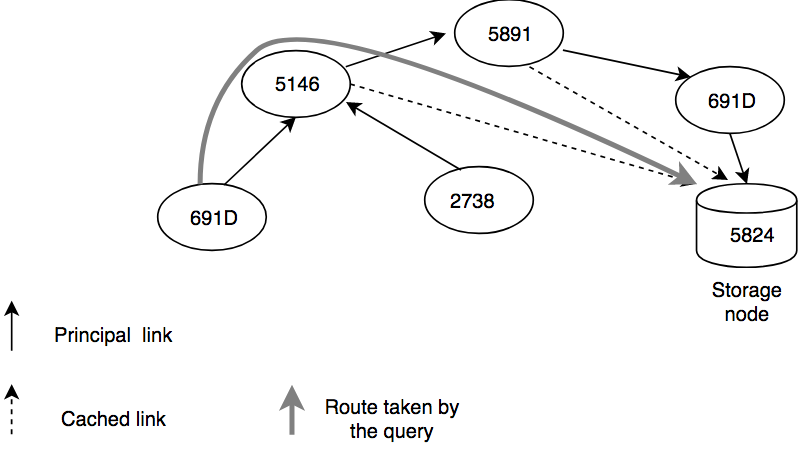
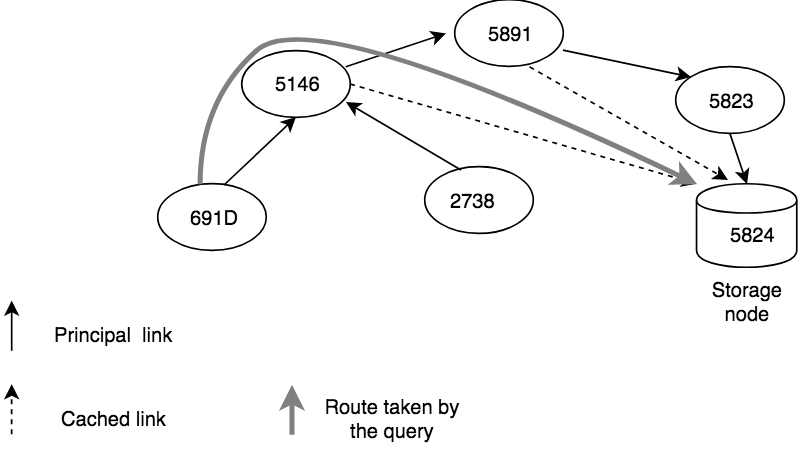
caching

diff --git a/network.tex b/network.tex
@@ -344,14 +344,22 @@ call to allow the application developer to make such choices.
 
 Figure \ref{fig:routing-eg} shows an example of routing a query for a content ID "5824" originating at node with ID
 "691D". The dotted arrows show the cached content links from secondary or cache routing network. The primary or
-principal links are shown in solid arrow. In this example, node "691D" routes the query for "5824" to the node "
+principal links are shown in solid arrow. In this example, node "691D" routes the query for "5824" to the node "5146"
+first as a level 0 match in its principal routing map. At this point, the first digit "5" is match and the node "5146"
+has a principal route to "5891" (matches "58") and then to "5823" (matches "582") which is the home node for the content
+ID "5824". "5823" then routes the query to the storage node which hosts the content. This would be the route that a
+query could take if it were to follow the principal routes in the routing map.
 
-The example the lookup operation
-for the content ID YYY originating at two different points in the network A and B. The query at A utilizes the principal
-links and finds the home node for the content ID YYY. The query at B ends up hitting a node C which has a cached link that
-directly routes it to the home node for YYY, thus saving a few network hops. In practice, our routing caching algorithm will
+The secondary routes are also shown in the Figure as dotted lines. In the example shown, node "5146" has a cached link
+to the storage node for the content ID "5824" and thus directly routes the message to that node. Cached links can thus
+optimize the routing and reduce the network stretch by a significant factor.  In practice, our routing caching algorithm will
 ensure that most lookups and queries can be satisfied using the cache routing network, so that we can get an \(O(1)\) lookup
 performance in the expected/average case.
+
+%The example the lookup operation
+%for the content ID YYY originating at two different points in the network A and B. The query at A utilizes the principal
+%links and finds the home node for the content ID YYY. The query at B ends up hitting a node C which has a cached link that
+%directly routes it to the home node for YYY, thus saving a few network hops.
 
 \begin{theorem}
 Picolo's network layer can perform location independent routing given Property \ref{property_unique_home}.
